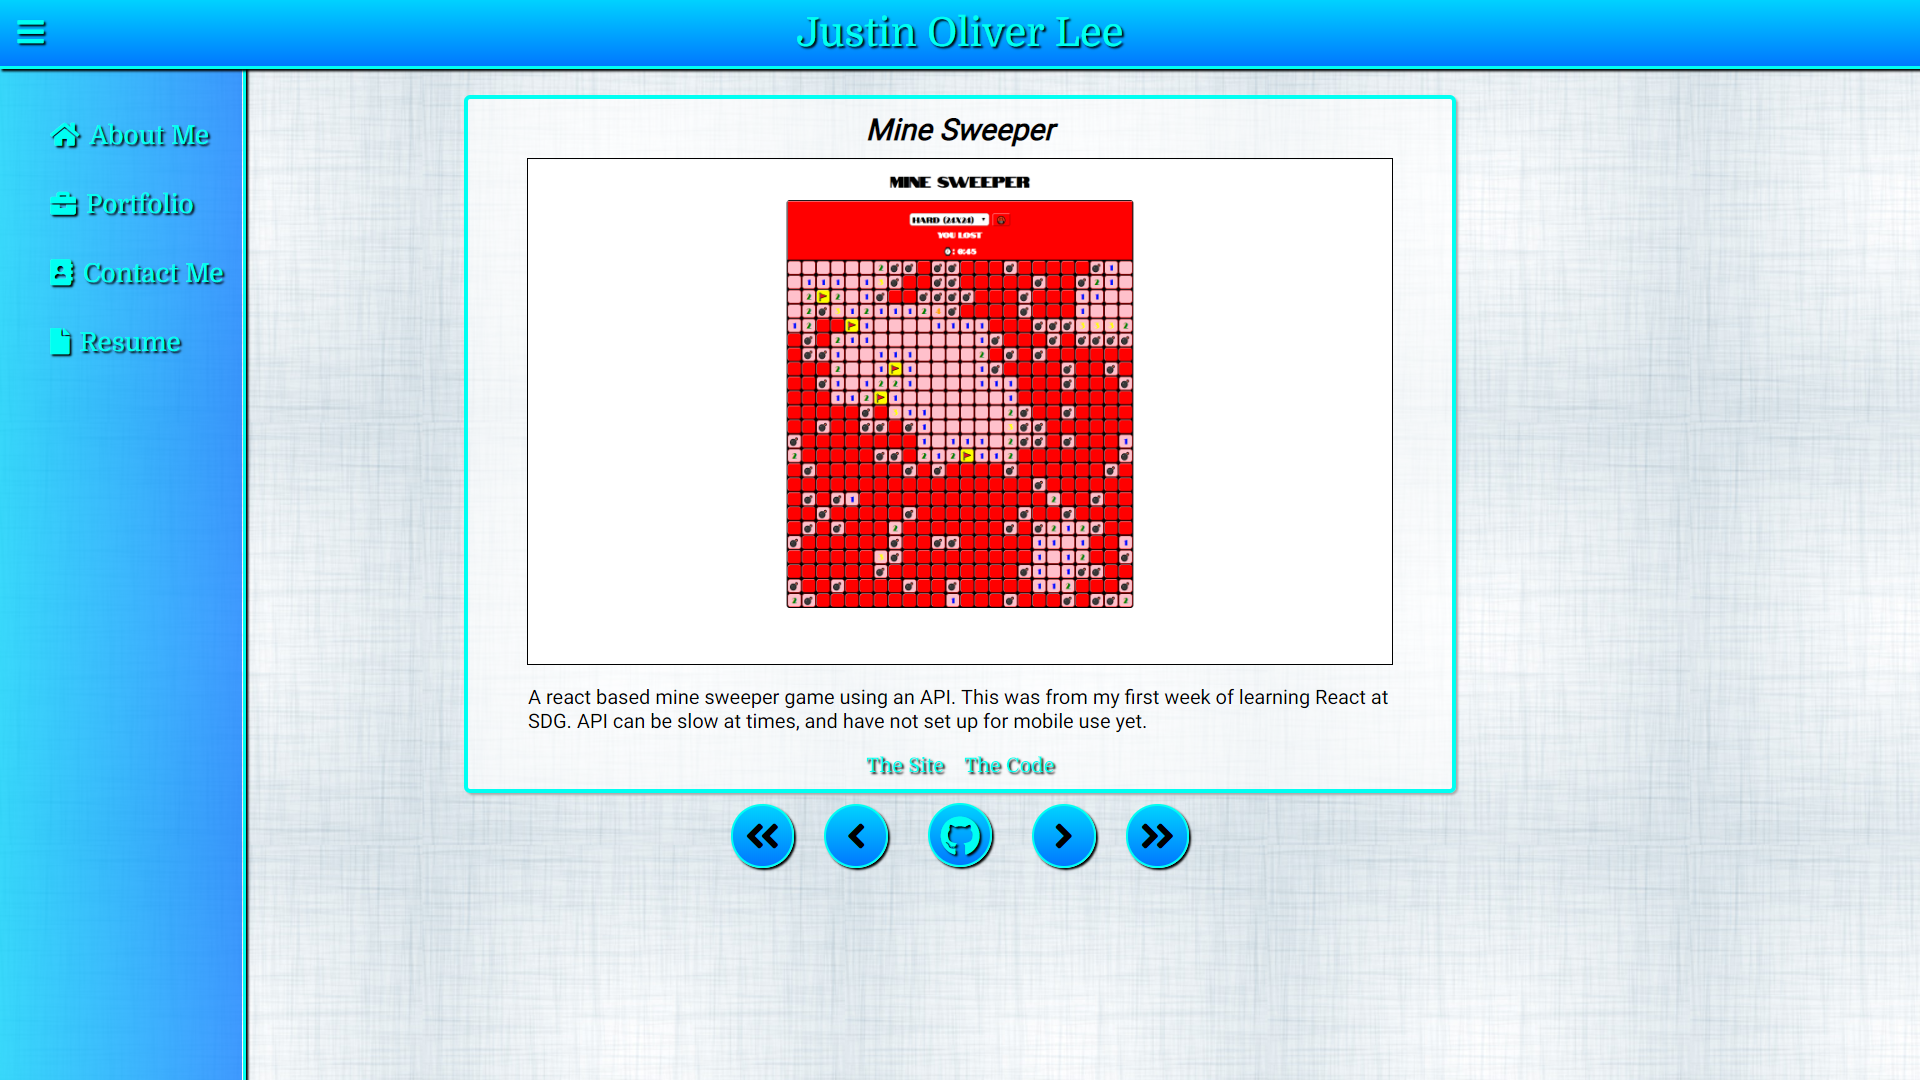
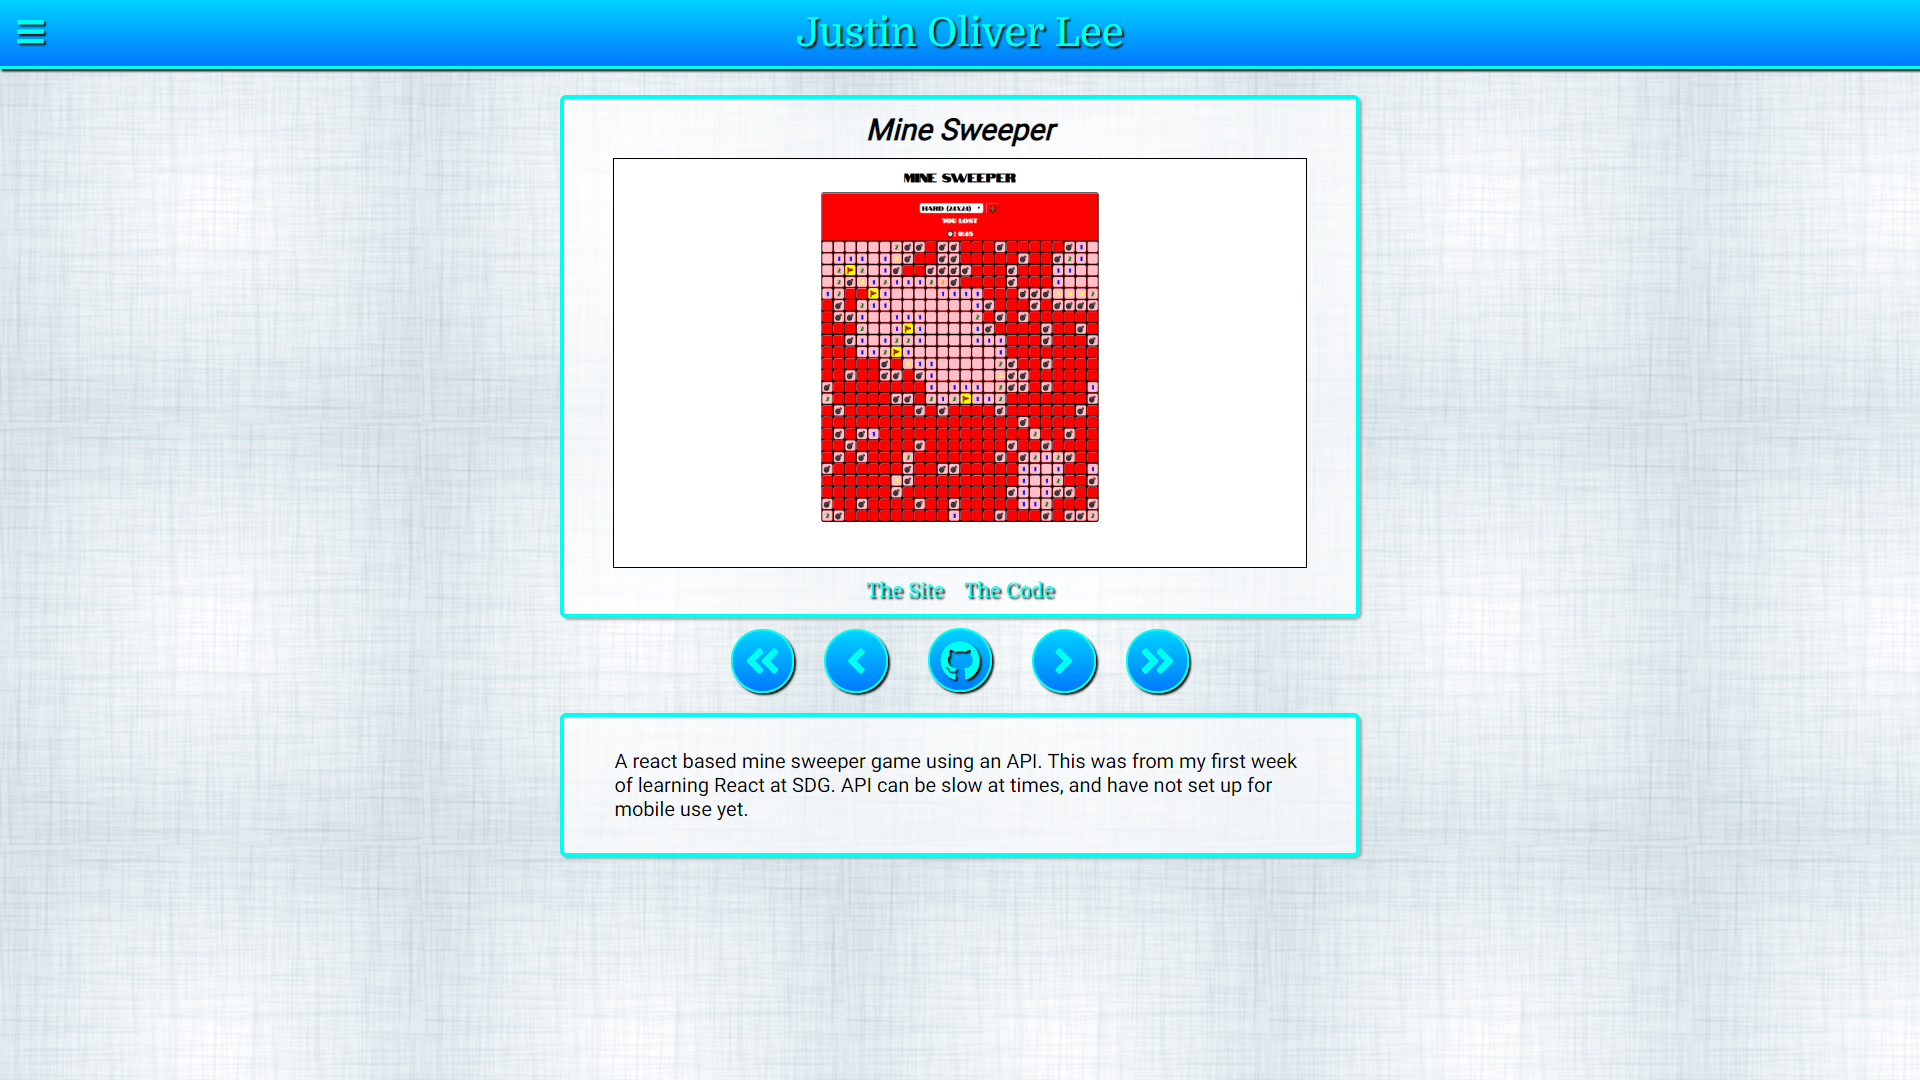
added more to JSON

diff --git a/src/Components/Content/Portfolio.js b/src/Components/Content/Portfolio.js
@@ -8,7 +8,6 @@ const ShowMyWork = styled.div`
 	align-items: center;
 
 	section {
-		height: 75vh;
 		border 1px solid rgb(0, 255, 242);
 		border-radius: 5px;
 		margin: 4% 4% 0 4%; 
@@ -25,6 +24,7 @@ const ShowMyWork = styled.div`
 		img {
 			width: 90%;
 			border 1px solid rgb(0, 0, 0);
+			margin-bottom: .5rem;
 
 		}
 		p{
@@ -53,9 +53,8 @@ const ShowMyWork = styled.div`
 	@media (min-width: 900px) {
 		section{
 			margin-top: 1rem;
-			width: 50%;
+			width: 40%;
 			border 3px solid rgb(0, 255, 242);
-
 		}
 		i {
 			font-size: 2rem;
@@ -104,7 +103,6 @@ class Porfolio extends Component {
 				<section>
 					<h2>{MyWork[index].title}</h2>
 					<img src={MyWork[index].imageSource} alt={MyWork[index].title} />
-					<p>{MyWork[index].description}</p>
 					<aside>
 						<a href={MyWork[index].location} target="_blank">
 							The Site
@@ -123,6 +121,9 @@ class Porfolio extends Component {
 					<i className="fas fa-angle-right" onClick={this.Next} />
 					<i className="fas fa-angle-double-right" onClick={this.Last} />
 				</aside>
+				<section>
+					<p>{MyWork[index].description}</p>
+				</section>
 			</ShowMyWork>
 		)
 	}
